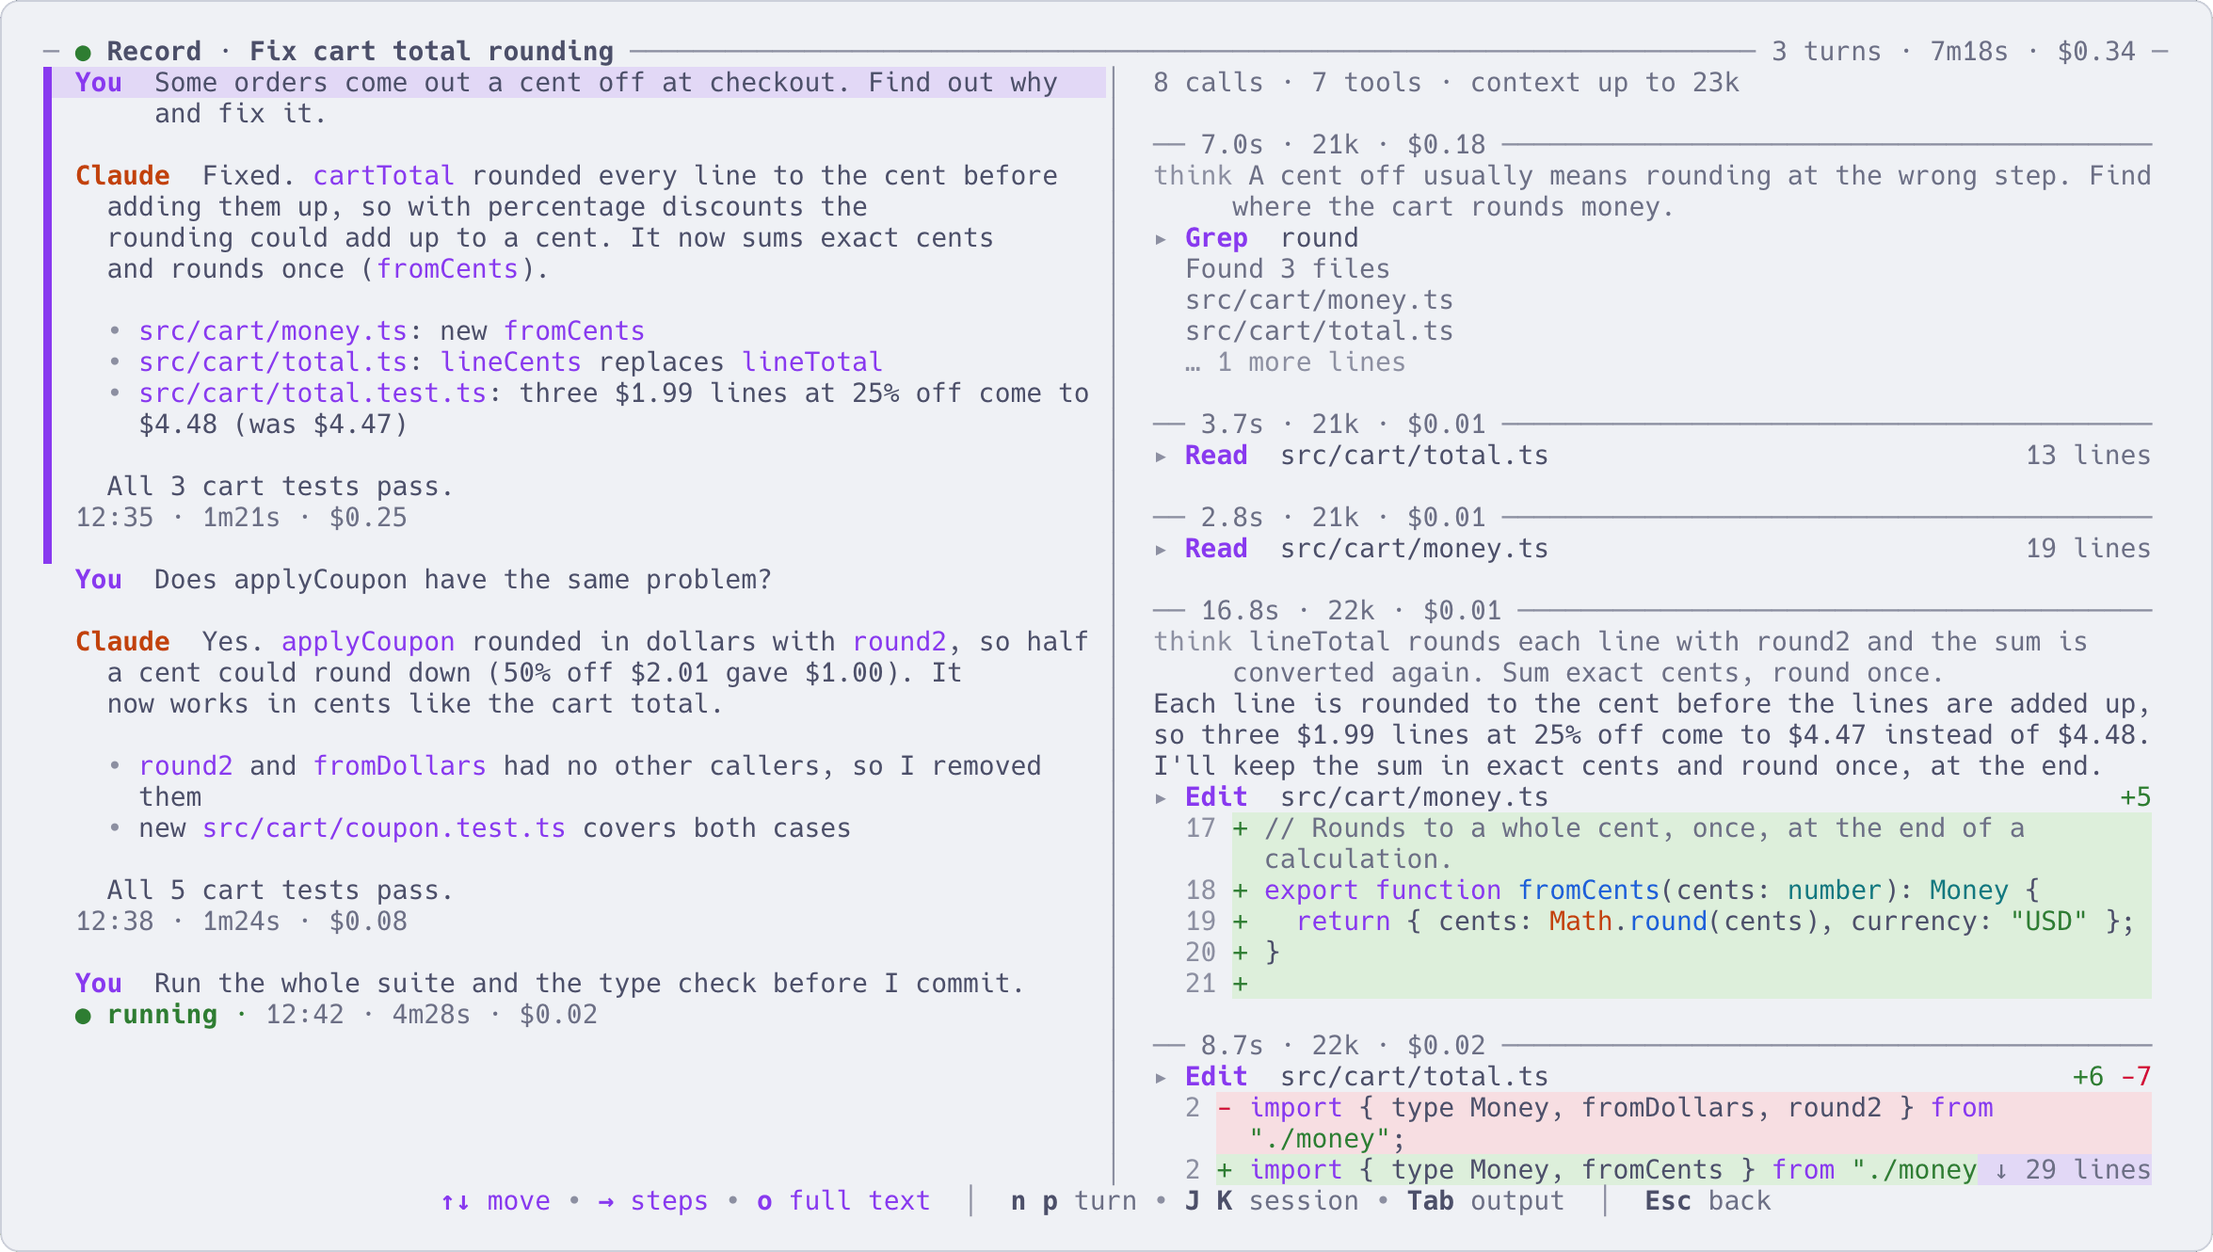
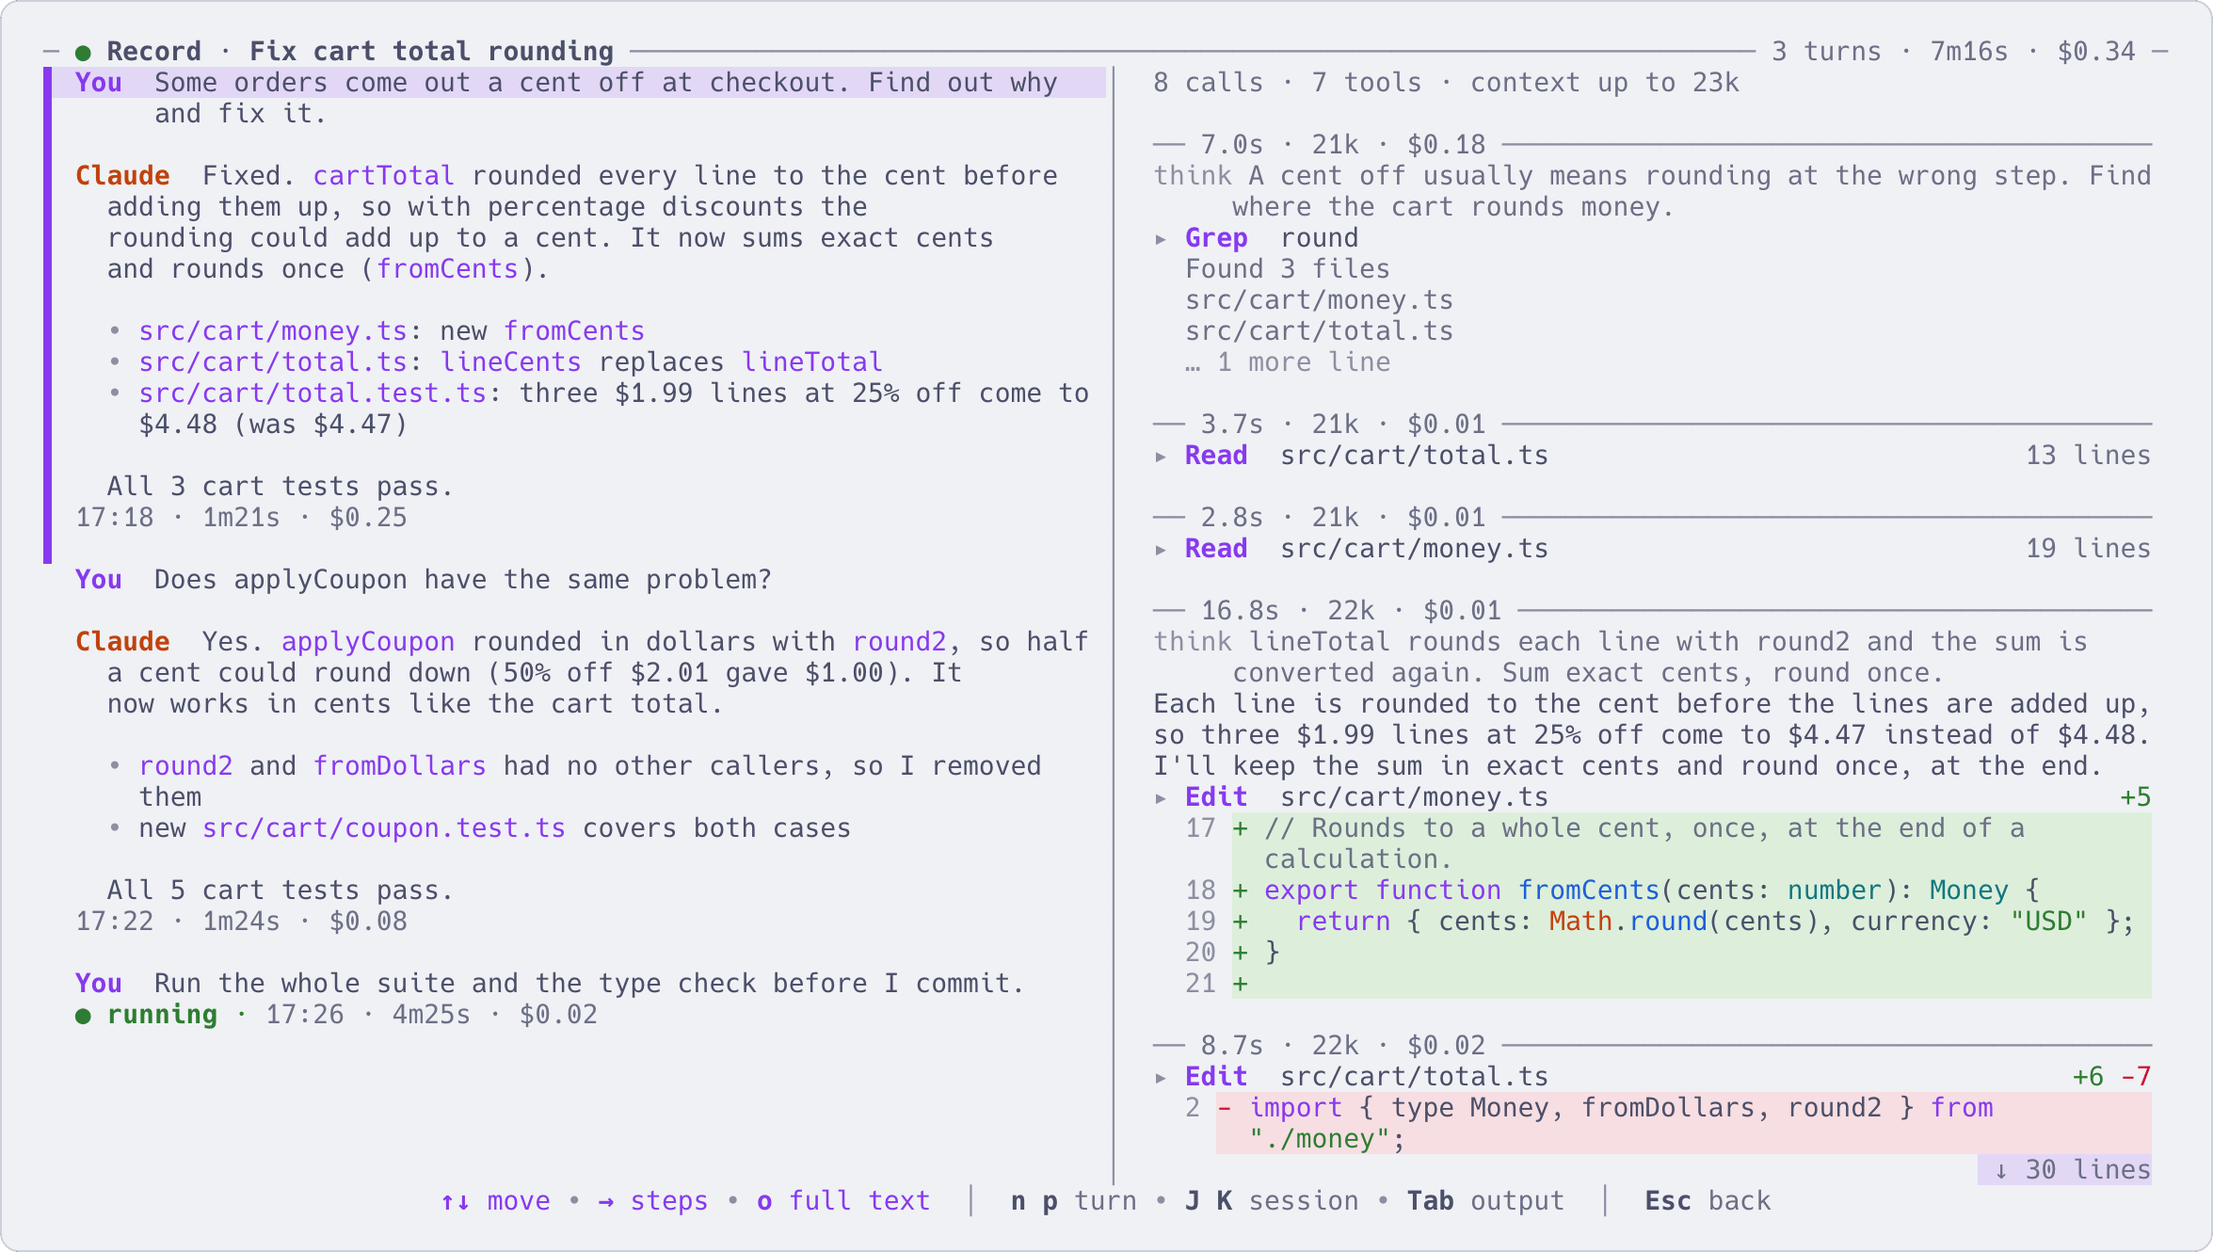
aca 0.1.1 (06c9de4)

Changed region(s): [[0.5279, 0.9248, 0.9005, 0.9556], [0.1242, 0.8015, 0.1553, 0.8323]]

diff --git a/crates/aca-tui/src/ui.rs b/crates/aca-tui/src/ui.rs
@@ -829,9 +829,10 @@ fn row_segments(
     let flags: String = [(s.noted, '✎'), (s.attached, '⇄')].iter().filter(|f| f.0 && own).map(|f| f.1).collect();
     let flag_style = if s.noted { theme::warn() } else { dim() };
     let when = s.when();
-    let when = format!("{}{when}", " ".repeat(3usize.saturating_sub(when.width())));
+    let age_w = crate::data::age_w();
+    let when = format!("{}{when}", " ".repeat(age_w.saturating_sub(when.width())));
     let who_cols = if who_w > 0 { who_w + 1 } else { 0 };
-    let tail_w = 2 + 1 + who_cols + 3 + 1;
+    let tail_w = 2 + 1 + who_cols + age_w + 1;
     let pre = tree;
     let loc = row_loc(s);
     let badge = agents_badge(s);
@@ -1261,7 +1262,8 @@ fn note_lines(text: &str, editing: bool, w: usize, room: usize, cap: usize) -> V
             out.push(Line::from(vec![mark, Span::raw(l)]));
         }
         if more > 0 {
-            out.push(Line::styled(tr!("  … 还有 {more} 行", "  … {more} more lines"), dim()));
+            let w = noun(more as u64, "line", "lines");
+            out.push(Line::styled(tr!("  … 还有 {more} 行", "  … {more} more {w}"), dim()));
         }
     }
     out
@@ -8195,14 +8197,9 @@ fn draw_screen(f: &mut Frame, app: &mut App) {
                 };
                 f.render_widget(Paragraph::new(tail.iter().map(ansi::to_line).collect::<Vec<_>>()), body);
                 ansi::paint_links(f.buffer_mut(), body, tail);
-                // Scrolled up: the bottom-right corner says how many lines are below (like the reader)
+                // Scrolled up: the bottom row says how many lines are below (like the reader)
                 if up > 0 {
-                    let tag = tr!(" ↓ {up} 行 ", " ↓ {up} lines ");
-                    let tw = tag.width() as u16;
-                    if body.width > tw + 2 && body.height > 0 {
-                        let r = Rect { x: body.x + body.width - tw, y: body.y + body.height - 1, width: tw, height: 1 };
-                        f.render_widget(Paragraph::new(Line::styled(tag, dim())).style(Style::new().bg(theme::pal().sel)), r);
-                    }
+                    below_tag(f, body, up);
                 }
                 let name = s.name.clone();
                 (app.preview_for, app.preview_up, app.preview_max) = (name, up, max);
@@ -9740,10 +9737,8 @@ fn clip_lines(mut ls: Vec<Styled>, max: usize, pad: &str) -> Vec<Styled> {
     if ls.len() > max {
         let more = ls.len() - max;
         ls.truncate(max);
-        ls.push(vec![crate::trace::seg(
-            tr!("{pad}… 还有 {} 行", "{pad}… {} more lines", crate::trace::thousands(more as u64)),
-            theme::faint(),
-        )]);
+        let (k, w) = (crate::trace::thousands(more as u64), noun(more as u64, "line", "lines"));
+        ls.push(vec![crate::trace::seg(tr!("{pad}… 还有 {k} 行", "{pad}… {k} more {w}"), theme::faint())]);
     }
     ls
 }
@@ -9937,16 +9932,26 @@ fn draw_blocks(f: &mut Frame, area: Rect, b: &Blocks, blocks: Vec<Vec<Line<'stat
         f.buffer_mut()
             .set_style(Rect { x: area.x, y: area.y + (s - top) as u16, width: area.width, height: 1 }, Style::new().bg(theme::pal().sel));
     }
-    // More below: the bottom-right corner says how many lines are left
     let below = b.total().saturating_sub(top + h);
     if below > 0 && !b.follow {
-        let tag = tr!(" ↓ {below} 行 ", " ↓ {below} lines ");
-        let tw = tag.width() as u16;
-        if area.width > tw + 2 {
-            let r = Rect { x: area.x + area.width - tw, y: area.y + area.height - 1, width: tw, height: 1 };
-            f.render_widget(Paragraph::new(Line::styled(tag, dim())).style(Style::new().bg(theme::pal().sel)), r);
-        }
+        below_tag(f, area, below);
     }
+}
+
+/// More below: the bottom row of `area` gives way to a tag at its right saying how many lines are left (that row counted
+/// too), rather than covering the end of a line
+fn below_tag(f: &mut Frame, area: Rect, below: usize) {
+    let n = below + 1;
+    let w = noun(n as u64, "line", "lines");
+    let tag = tr!(" ↓ {n} 行 ", " ↓ {n} {w} ");
+    let tw = tag.width() as u16;
+    if area.height < 2 || area.width <= tw + 2 {
+        return;
+    }
+    let row = Rect { y: area.y + area.height - 1, height: 1, ..area };
+    f.render_widget(ratatui::widgets::Clear, row);
+    let r = Rect { x: row.x + row.width - tw, width: tw, ..row };
+    f.render_widget(Paragraph::new(Line::styled(tag, dim())).style(Style::new().bg(theme::pal().sel)), r);
 }
 
 fn draw_chat(f: &mut Frame, v: &mut TraceView, area: Rect, live: bool, now: i64) {
@@ -12696,7 +12701,7 @@ mod tests {
             let r = row_of(&rows, t);
             r[..r.find(t).unwrap()].width()
         };
-        assert_eq!((col(" 10s"), col(" 30s")), (col(" 20s"), col(" 20s")), "{rows:#?}");
+        assert_eq!((col(" 10秒"), col(" 30秒")), (col(" 20秒"), col(" 20秒")), "{rows:#?}");
         // The account follows the title, colored by tool
         let t = rows.iter().find(|r| r.contains("#3 构建")).unwrap();
         assert!(t.contains(" cx "), "{t}");
@@ -14097,10 +14102,11 @@ mod tests {
         let has = |rows: &[String], t: &str| rows.iter().any(|r| r.contains(t));
         let rows = reader_rows(&mut app, 120, 36);
         assert!(has(&rows, "第 80 行") && !has(&rows, "↓"), "{rows:#?}");
-        // Scroll up: three rows at a time, the bottom-right corner says how many rows are below
+        // Scroll up: three rows at a time; the bottom row gives way to how many rows are below, itself included, rather than
+        // covering the end of one
         wheel(&mut app, MouseEventKind::ScrollUp);
         let rows = reader_rows(&mut app, 120, 36);
-        assert!(has(&rows, "第 77 行") && !has(&rows, "第 78 行") && has(&rows, "↓ 3 行"), "{rows:#?}");
+        assert!(has(&rows, "第 76 行") && !has(&rows, "第 77 行") && has(&rows, "↓ 4 行"), "{rows:#?}");
         assert!(app.msg.is_none() && app.current().unwrap().title == "跑");
         // At the top of this screen: further up points to full-screen reading
         for _ in 0..40 {
@@ -16043,12 +16049,15 @@ mod tests {
         let rows = text(&app);
         assert!(rows.iter().all(|r| r.width() == 46), "{rows:?}");
         let run = rows.iter().find(|r| r.contains("跑")).unwrap();
-        assert!(run.ends_with(" team  5s "), "{run}"); // 5s right-aligned to 3 cells
+        assert!(run.ends_with(" team  5秒 "), "{run}"); // 5秒 right-aligned to 4 cells
+        // In English the column is 3 cells
+        let en = i18n::with(Lang::En, || text(&app));
+        assert!(en.iter().all(|r| r.width() == 46) && en.iter().any(|r| r.ends_with(" team  5s ")), "{en:?}");
         // Only sessions without an account left on show: the column width stays (computed over all sessions), titles don't shift
         press(&mut app, KeyCode::Char('w'));
         press(&mut app, KeyCode::Char('}'));
         assert_eq!(titles(&app), ["未读", "问"]);
-        assert!(text(&app)[0].ends_with(&format!("{}11d ", " ".repeat(2 + 1 + 4 + 1))), "{:?}", text(&app)); // Mark col + empty account col
+        assert!(text(&app)[0].ends_with(&format!("{}11天 ", " ".repeat(2 + 1 + 4 + 1))), "{:?}", text(&app)); // Mark col + empty account col
         // Too long is cut; when no session has an account the column takes no space
         v[2].who = "a-very-long-slot".into();
         assert_eq!(App::new(String::new(), v.clone()).who_width(), 8);
@@ -16554,8 +16563,8 @@ mod tests {
             ],
         );
         let row = |rows: &[String], what: &str| rows.iter().find(|r| r.contains(what)).cloned().unwrap_or_default();
-        assert!(row(&rows, "├ ● Explore").contains(" 1m"), "{rows:#?}");
-        assert!(row(&rows, "├ ✓ fork").contains("40s"), "{rows:#?}");
+        assert!(row(&rows, "├ ● Explore").contains(" 1分"), "{rows:#?}");
+        assert!(row(&rows, "├ ✓ fork").contains("40秒"), "{rows:#?}");
         // Digit keys follow the numbers: 4 is the window, not a subagent
         press(&mut app, KeyCode::Char('4'));
         assert_eq!(app.current().unwrap().title, "zsh");
@@ -17044,6 +17053,21 @@ mod tests {
         press(&mut app, KeyCode::Char('n'));
         trace_panes(&mut app, 120, 12);
         assert_eq!(app.trace.as_ref().unwrap().steps.top, 0);
+    }
+
+    #[test]
+    fn one_line_left_is_a_line_in_english() {
+        let last = |n: usize| i18n::with(Lang::En, || clip_lines(vec![vec![]; n], 2, "").last().unwrap()[0].text.clone());
+        assert_eq!((last(3), last(4)), ("… 1 more line".to_string(), "… 2 more lines".to_string()));
+    }
+
+    #[test]
+    fn more_below_in_the_record_takes_the_bottom_row_rather_than_covering_a_line() {
+        let (mut app, _) = trace_app("phone");
+        press(&mut app, KeyCode::Char('p'));
+        press(&mut app, KeyCode::Char('p'));
+        let rows = reader_rows(&mut app, 46, 8);
+        assert!(rows.iter().any(|r| r.trim().starts_with("↓ ") && r.trim().ends_with('行')), "{rows:#?}");
     }
 
     #[test]

diff --git a/crates/aca/tests/e2e.rs b/crates/aca/tests/e2e.rs
@@ -1409,6 +1409,31 @@ fn waiting_for_a_worker_returns_when_its_turn_ends_and_its_notice_does_not_wake_
 }
 
 #[test]
+fn a_turn_ended_with_background_tasks_still_running_is_not_what_wait_returns_on() {
+    let Some(sb) = Sandbox::new("waitbg") else { return };
+    sb.screen_tools();
+    let w = sb.aca(&["new", "scr", &sb.proj()]);
+    let pane = sb.pane(&w);
+    sb.set_screen(&w, &pane, "✻ Pondering… (3s · ↓ 1k tokens)");
+    sb.hook(&w, &pane, r#"{"hook_event_name":"UserPromptSubmit","session_id":"c1","prompt":"录屏"}"#);
+    let mut child = sb.cmd().args(["wait", &w, "--timeout", "20"]).stdout(std::process::Stdio::piped()).spawn().unwrap();
+
+    // Claude ends the turn while its own background task runs: it'll be woken when the task ends, so keep waiting
+    sb.set_screen(&w, &pane, "❯ ");
+    sb.hook(&w, &pane, r#"{"hook_event_name":"Stop","session_id":"c1","last_assistant_message":"等录完","background_tasks":[{"id":"b1"}]}"#);
+    std::thread::sleep(std::time::Duration::from_millis(1500));
+    assert!(child.try_wait().unwrap().is_none(), "后台任务还在跑,不该等到");
+
+    // The task ends and wakes it for a new turn; this one ends with nothing left in the background
+    sb.set_screen(&w, &pane, "✻ Pondering… (1s · ↓ 1k tokens)");
+    sb.hook(&w, &pane, r#"{"hook_event_name":"UserPromptSubmit","session_id":"c1","prompt":"<task-notification>"}"#);
+    sb.set_screen(&w, &pane, "❯ ");
+    sb.hook(&w, &pane, r#"{"hook_event_name":"Stop","session_id":"c1","last_assistant_message":"录好了","background_tasks":[]}"#);
+    let o = child.wait_with_output().unwrap();
+    assert_eq!((o.status.code(), String::from_utf8_lossy(&o.stdout).trim()), (Some(0), format!("{w} 完成一轮:「录好了」").as_str()));
+}
+
+#[test]
 fn a_plugin_installed_from_git_brings_its_claude_plugin_while_enabled_and_goes_away_cleanly() {
     let Some(sb) = Sandbox::new("plugins") else { return };
     // A plugin repo: the manifest says to pass Claude the plugin directory claude/

diff --git a/crates/aca-tui/src/diff.rs b/crates/aca-tui/src/diff.rs
@@ -13,6 +13,7 @@ use std::process::{Command, Stdio};
 
 use ratatui::style::{Modifier, Style};
 
+use aca_core::i18n::noun;
 use aca_core::{t, tr};
 
 use crate::ansi::{Seg, Styled};
@@ -501,10 +502,12 @@ pub fn render(h: &Head, patch: &str, new_files: &[(String, Option<String>)]) -> 
             Some(t) => {
                 let lines: Vec<&str> = t.lines().collect();
                 f.add = lines.len();
-                f.body.push(tr!("@@ 新文件,{} 行 @@", "@@ new file, {} lines @@", lines.len()));
+                let (n, w) = (lines.len(), noun(lines.len() as u64, "line", "lines"));
+                f.body.push(tr!("@@ 新文件,{n} 行 @@", "@@ new file, {n} {w} @@"));
                 f.body.extend(lines.iter().take(NEW_FILE_LINES).map(|l| format!("+{l}")));
                 if lines.len() > NEW_FILE_LINES {
-                    f.body.push(tr!("\\ 还有 {} 行未显示", "\\ {} more lines not shown", lines.len() - NEW_FILE_LINES));
+                    let (n, w) = (lines.len() - NEW_FILE_LINES, noun((lines.len() - NEW_FILE_LINES) as u64, "line", "lines"));
+                    f.body.push(tr!("\\ 还有 {n} 行未显示", "\\ {n} more {w} not shown"));
                 }
             }
             None => f.about = Some(t!("内容未显示(新文件过多)", "content not shown (too many new files)").into()),

diff --git a/crates/aca-tui/src/data.rs b/crates/aca-tui/src/data.rs
@@ -20,6 +20,7 @@ use aca_core::proc::{self, Kids};
 use aca_core::runtime::Run;
 use aca_core::store::{self, Store};
 use aca_core::tmux::Pane;
+use aca_core::i18n::{self, Lang};
 use aca_core::{paths, status};
 use aca_core::{t, tr};
 use regex::Regex;
@@ -634,14 +635,23 @@ pub fn dur(sec: u64) -> String {
     }
 }
 
-/// Duration (short form, the list's last column, at most 3 cells wide): now / 40s / 12m / 2h / 3d
+/// Duration (short form, the list's last column, at most [`age_w`] cells wide): now / 40s / 12m / 2h / 3d, in Chinese
+/// 刚刚 / 40秒 / 12分 / 2时 / 3天 (the units `aca ls` uses)
 pub fn age(sec: u64) -> String {
     match sec {
-        0 => "now".into(),
-        1..=59 => format!("{sec}s"),
-        60..=3599 => format!("{}m", sec / 60),
-        3600..=86399 => format!("{}h", sec / 3600),
-        _ => format!("{}d", sec / 86400),
+        0 => t!("刚刚", "now").into(),
+        1..=59 => tr!("{sec}秒", "{sec}s"),
+        60..=3599 => tr!("{}分", "{}m", sec / 60),
+        3600..=86399 => tr!("{}时", "{}h", sec / 3600),
+        _ => tr!("{}天", "{}d", sec / 86400),
+    }
+}
+
+/// How wide the list's time column is: a Chinese unit takes two cells
+pub fn age_w() -> usize {
+    match i18n::lang() {
+        Lang::Zh => 4,
+        Lang::En => 3,
     }
 }
 

diff --git a/crates/aca-tui/src/subagent.rs b/crates/aca-tui/src/subagent.rs
@@ -218,7 +218,8 @@ fn head_lines(text: &str, max: usize, out: &mut Vec<String>) {
     out.extend(lines.iter().take(max).map(|l| format!("  {l}")));
     if lines.len() > max {
         let more = lines.len() - max;
-        out.push(paint(&aca_core::tr!("  … 还有 {more} 行", "  … {more} more lines"), crate::ui::dim()));
+        let w = aca_core::i18n::noun(more as u64, "line", "lines");
+        out.push(paint(&aca_core::tr!("  … 还有 {more} 行", "  … {more} more {w}"), crate::ui::dim()));
     }
 }
 
@@ -258,7 +259,8 @@ fn screen(t: &Trace, phase: Phase, task: &str) -> (Vec<String>, bool) {
     let tools: Vec<&crate::trace::Node> = t.nodes.iter().filter(|n| n.kind == Kind::Tool).collect();
     if tools.len() > STEPS {
         let more = tools.len() - STEPS;
-        out.push(paint(&aca_core::tr!("… 前面还有 {more} 步", "… {more} earlier steps"), dim));
+        let w = aca_core::i18n::noun(more as u64, "step", "steps");
+        out.push(paint(&aca_core::tr!("… 前面还有 {more} 步", "… {more} earlier {w}"), dim));
     }
     let name_w = tools.iter().rev().take(STEPS).map(|n| crate::trace::tool_name(&n.name).chars().count()).max().unwrap_or(0).min(10);
     for n in &tools[tools.len().saturating_sub(STEPS)..] {

diff --git a/crates/aca-core/src/inbox.rs b/crates/aca-core/src/inbox.rs
@@ -883,7 +883,10 @@ fn outcome(cfg: &Config, s: &Session, since: u64, now: u64) -> Option<Outcome> {
             let busy = list(&s.id).iter().any(|(m, st)| m.wake && *st != Stage::Got);
             let never = r.turn == 0 && r.done == 0;
             let early = now.saturating_sub(since) < 3 && r.done < since;
-            (!busy && !never && !early).then_some(Outcome::Done)
+            // Ended the turn with background tasks still running (Claude): it's woken for a new turn when they end, so it
+            // isn't done yet. One that never ends (a server left running) is waited on until --timeout
+            let bg = r.status == "done" && r.bg > 0;
+            (!busy && !never && !early && !bg).then_some(Outcome::Done)
         }
     }
 }

diff --git a/crates/aca-tui/src/trace_page.rs b/crates/aca-tui/src/trace_page.rs
@@ -72,7 +72,8 @@ fn change_paras(ch: &[&Change], pre: &Styled, path: &str) -> Vec<Para> {
 }
 
 fn more(pre: &Styled, k: usize) -> Para {
-    Para::under(pre.clone(), vec![seg(tr!("… 还有 {} 行", "… {} more lines", thousands(k as u64)), theme::faint())])
+    let (n, w) = (thousands(k as u64), noun(k as u64, "line", "lines"));
+    Para::under(pre.clone(), vec![seg(tr!("… 还有 {n} 行", "… {n} more {w}"), theme::faint())])
 }
 
 /// Changes to several files: when more than one file changed, each file gets a path line first. open = show everything with

diff --git a/plugins/delegate/claude/commands/delegate.md b/plugins/delegate/claude/commands/delegate.md
@@ -74,7 +74,8 @@ and be woken when it ends (Claude Code):
 ```
 Bash(run_in_background: true, command: "aca wait <id>")
 ```
-`aca wait` returns when the worker's turn ends, and you are woken when it does. One call per
+`aca wait` returns when the worker's turn ends, and you are woken when it does. A turn it ends
+while its own background tasks still run doesn't count: those wake it again. One call per
 worker, so each one wakes you as it lands instead of all of them waiting on the slowest. Don't add
 `--notify` to `aca new`: the wait is the one wake-up channel, and it is the one that also catches a
 Codex turn that failed without a hook.
